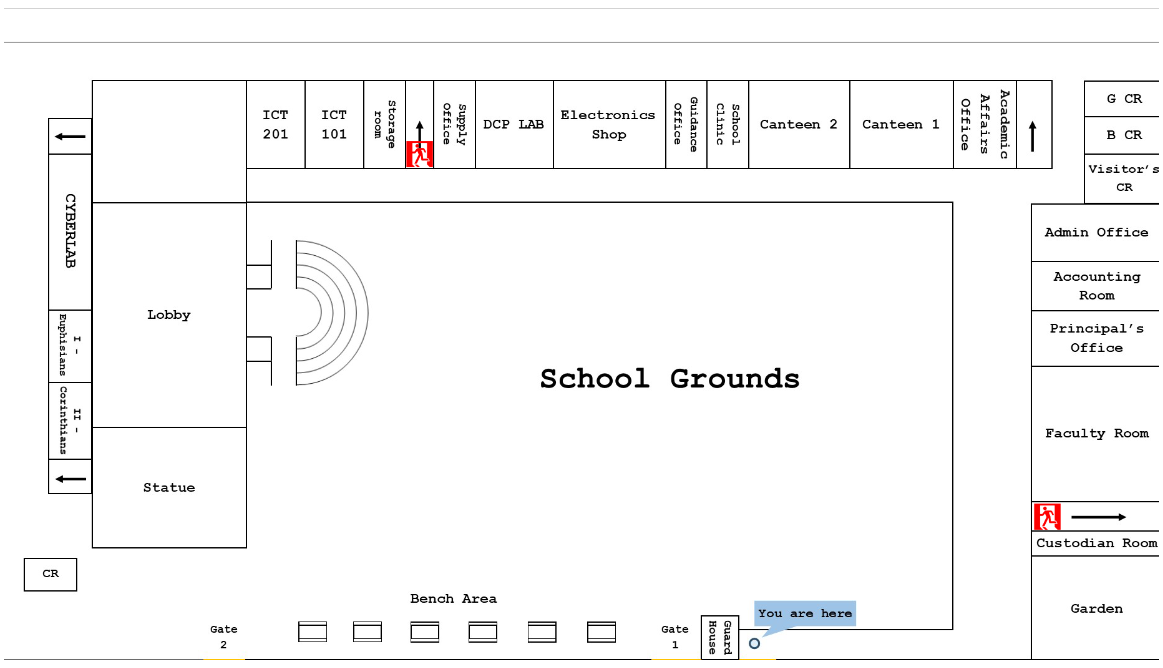
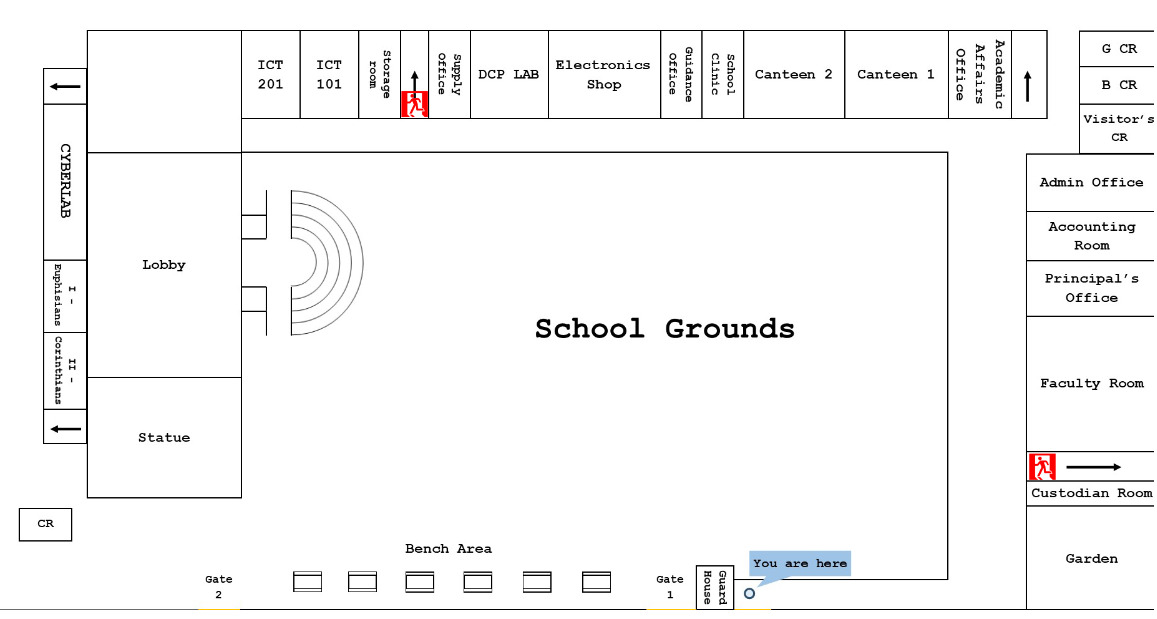
FACILITIES BUTTONS

diff --git a/src/Facilities/Facilities.jsx b/src/Facilities/Facilities.jsx
@@ -1,12 +1,41 @@
-import React from 'react'
+import React, { useState } from 'react'
 import "../Homepage/Homepage.css"
 import StrandCard from '../Homepage/Card';
 import "./Facilities.css";
-import Facilities_Ground_Floor from "../assets/Facilities_Ground_Floor.png";
 import { Link } from 'react-router-dom';
 import placeholder from "../assets/Placeholder.jpg"
+import Facilities_Ground_Floor from "../assets/Facilities_Ground_Floor.png";
+import Facilities_Second_Floor from "../assets/Facilities_Second_Floor.png";
+import Facilities_Third_Floor from "../assets/Facilities_Third_Floor.png";
+import Facilities_Fourth_Floor from "../assets/Facilities_Fourth_Floor.png";
+import LeftButton from "../assets/Left-Button-removebg-preview.png";
+import RightButton from "../assets/Right-Button-removebg-preview.png";
 
 export default function Facilities() {
+     const facilitiesImages = [
+    Facilities_Ground_Floor,
+    Facilities_Second_Floor,
+    Facilities_Third_Floor,
+    Facilities_Fourth_Floor
+  ];
+
+  const [currentIndex, setCurrentIndex] = useState(0);
+
+  const nextImage = () => {
+    setCurrentIndex(
+      currentIndex === facilitiesImages.length - 1
+        ? 0
+        : currentIndex + 1
+    );
+  };
+  const prevImage = () => {
+    setCurrentIndex(
+      currentIndex === 0
+        ? facilitiesImages.length - 1
+        : currentIndex - 1
+    );
+  };
+
     return (
         <div className="facilities-container">
             <div className="facilities-title">
@@ -14,7 +43,23 @@ export default function Facilities() {
                 <h1>Directory</h1>
             </div>
             <div className="facilities-image">
-                <img src={Facilities_Ground_Floor} alt="Facilities" />
+                <div className="facilities-image-frame">
+                    <button className="facility-nav facility-nav-left" onClick={prevImage} aria-label="Previous image">
+                        <img src={LeftButton} alt="" aria-hidden="true" />
+                    </button>
+                    <img className="facility-main-image" src={facilitiesImages[currentIndex]} alt="Facilities" />
+                    <button className="facility-nav facility-nav-right" onClick={nextImage} aria-label="Next image">
+                        <img src={RightButton} alt="" aria-hidden="true" />
+                    </button>
+                </div>
+                <div className="facility-indicators" aria-label="Image indicators">
+                    {facilitiesImages.map((_, index) => (
+                        <span
+                            key={index}
+                            className={`facility-indicator${index === currentIndex ? " is-active" : ""}`}
+                        />
+                    ))}
+                </div>
             </div>
             <div className="facilities-list"> 
                 <table className='buttons-facility'>

diff --git a/src/Facilities/Facilities.css b/src/Facilities/Facilities.css
@@ -29,8 +29,79 @@
 
 .facilities-image {
     display: flex;
+    flex-direction: column;
     justify-content: center;
     margin-bottom: 5rem;
+    align-items: center;
+    gap: 1rem;
+}
+
+.facilities-image-frame {
+    position: relative;
+    display: inline-block;
+}
+
+.facility-main-image {
+    max-width: 100%;
+    height: auto;
+    display: block;
+}
+
+.facility-nav {
+    position: absolute;
+    top: 50%;
+    transform: translateY(-50%);
+    width: 56px;
+    height: 56px;
+    padding: 0;
+    border: none;
+    background: transparent;
+    cursor: pointer;
+    display: inline-flex;
+    align-items: center;
+    justify-content: center;
+}
+
+.facility-nav img {
+    width: 100%;
+    height: 100%;
+    display: block;
+    opacity: 0.7;
+    transition: opacity 160ms ease, filter 160ms ease;
+}
+
+.facility-nav:hover img {
+    opacity: 1;
+    filter: drop-shadow(0 0 10px rgba(27, 88, 233, 0.6));
+}
+
+.facility-nav-left {
+    left: 8px;
+}
+
+.facility-nav-right {
+    right: 8px;
+}
+
+.facility-indicators {
+    display: flex;
+    gap: 8px;
+    align-items: center;
+    justify-content: center;
+    margin-top: 12px;
+}
+
+.facility-indicator {
+    width: 10px;
+    height: 10px;
+    border-radius: 999px;
+    background-color: rgba(27, 88, 233, 0.35);
+    transition: transform 160ms ease, background-color 160ms ease;
+}
+
+.facility-indicator.is-active {
+    background-color: #1b58e9;
+    transform: scale(1.2);
 }
 
 .facilities-list {
@@ -121,12 +192,13 @@
 .direction-image h1{
     display: flex;
     align-items: center;
-
+    
 }
 
-.second-facilities-contnent{
+.direction-image{
     display: flex;
     flex-direction: column;
     justify-content: center;
     align-items: center;
-}hhibhuubhubhubhugb
+    
+}

diff --git a/src/Facilities/Facilities Subpages/canteen.jsx b/src/Facilities/Facilities Subpages/canteen.jsx
@@ -1,0 +1,6 @@
+import React from 'react'
+import "../Homepage/Homepage.css"
+import StrandCard from '../Homepage/Card';
+import "./Facilities.css";
+import Facilities_Ground_Floor from "../assets/Facilities_Ground_Floor.png";
+import { Link } from 'react-router-dom';
